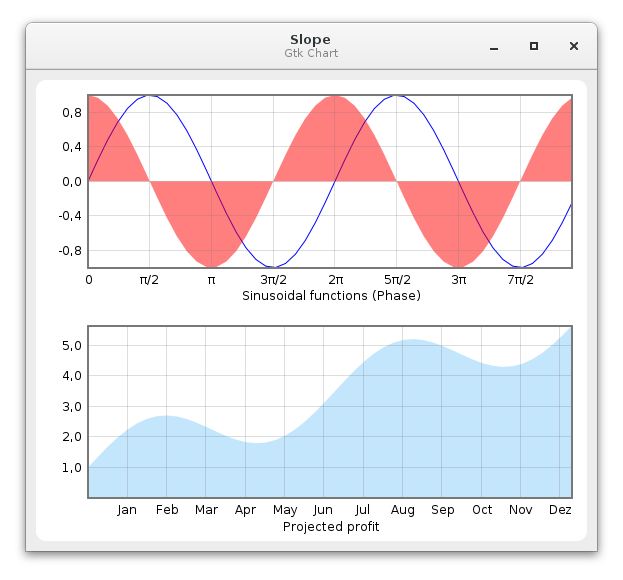
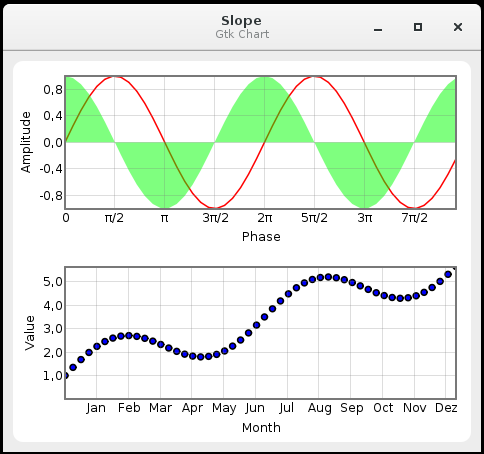
Improve series plot style

diff --git a/src/slope/xyseries.c b/src/slope/xyseries.c
@@ -28,7 +28,8 @@ _SlopeXySeriesPrivate
     double x_min, x_max;
     double y_min, y_max;
 
-    const double *x_vec, *y_vec;
+    const double *x_vec;
+    const double *y_vec;
     long n_pts;
 
     SlopeColor stroke_color;
@@ -44,7 +45,6 @@ static void _xyseries_draw (SlopeItem *self, cairo_t *cr);
 static void _xyseries_finalize (GObject *self);
 static void _xyseries_get_figure_rect (SlopeItem *self, SlopeRect *rect);
 static void _xyseries_get_data_rect (SlopeItem *self, SlopeRect *rect);
-
 static void _xyseries_draw_line (SlopeXySeries *self, cairo_t *cr);
 static void _xyseries_draw_circles (SlopeXySeries *self, cairo_t *cr);
 static void _xyseries_draw_areaunder (SlopeXySeries *self, cairo_t *cr);
@@ -80,8 +80,8 @@ slope_xyseries_init (SlopeXySeries *self)
     priv->mode = SLOPE_SERIES_CIRCLES;
     priv->stroke_color = SLOPE_BLUE;
     priv->fill_color = SLOPE_RED;
-    priv->line_width = 1.0;
-    priv->symbol_radius = 2.2;
+    priv->line_width = 1.5;
+    priv->symbol_radius = 3.0;
 }
 
 
@@ -270,12 +270,13 @@ void _xyseries_draw_circles (SlopeXySeries *self, cairo_t *cr)
     for (k=0L; k<priv->n_pts; ++k) {
         fig_p.x = priv->x_vec[k];
         fig_p.y = priv->y_vec[k];
-        slope_scale_map(scale, &dat_p, &fig_p);
 
+        slope_scale_map(scale, &dat_p, &fig_p);
         slope_cairo_circle(cr, &dat_p, priv->symbol_radius);
 
         if (!SLOPE_COLOR_IS_NULL(priv->fill_color) &&
-        !SLOPE_COLOR_IS_NULL(priv->stroke_color)) {
+            !SLOPE_COLOR_IS_NULL(priv->stroke_color))
+        {
             slope_cairo_set_color(cr, priv->fill_color);
             cairo_fill_preserve(cr);
             slope_cairo_set_color(cr, priv->stroke_color);
@@ -366,7 +367,7 @@ slope_xyseries_set_style (SlopeXySeries *self, const char *style)
 {
     SlopeXySeriesPrivate *priv = SLOPE_XYSERIES_GET_PRIVATE(self);
     SlopeColor fill_color=SLOPE_RED, stroke_color=SLOPE_BLUE;
-    double line_width=1.0;
+    double line_width=1.5;
     int mode=SLOPE_SERIES_LINE, k=0;
 
     /* parse the stroke and fill colors */

diff --git a/demos/plot_stack.c b/demos/plot_stack.c
@@ -66,12 +66,12 @@ int main(int argc, char *argv[])
     sampler = slope_xyaxis_get_sampler(SLOPE_XYAXIS(axis));
     slope_sampler_set_samples(sampler, slope_sampler_month_samples, 12);
 
-    series11 = slope_xyseries_new_filled("Sine", x, y11, n, "b-");
+    series11 = slope_xyseries_new_filled("Sine", x, y11, n, "r-");
     slope_scale_add_item(scale1, series11);
-    series12 = slope_xyseries_new_filled("Cossine", x, y12, n, "ra");
+    series12 = slope_xyseries_new_filled("Cossine", x, y12, n, "ga");
     slope_scale_add_item(scale1, series12);
 
-    series2 = slope_xyseries_new_filled("Sine + Linear", x, y2, n, "la");
+    series2 = slope_xyseries_new_filled("Sine + Linear", x, y2, n, "kob");
     slope_scale_add_item(scale2, series2);
 
     gtk_widget_show_all(chart);

diff --git a/demos/simple.c b/demos/simple.c
@@ -49,7 +49,7 @@ int main(int argc, char *argv[])
     scale = slope_xyscale_new();
     slope_chart_add_scale(SLOPE_CHART(chart), scale);
 
-    series = slope_xyseries_new_filled("Sine", x, y, n, "b-");
+    series = slope_xyseries_new_filled("Sine", x, y, n, "kor");
     slope_scale_add_item(scale, series);
 
     gtk_widget_show_all(chart);
